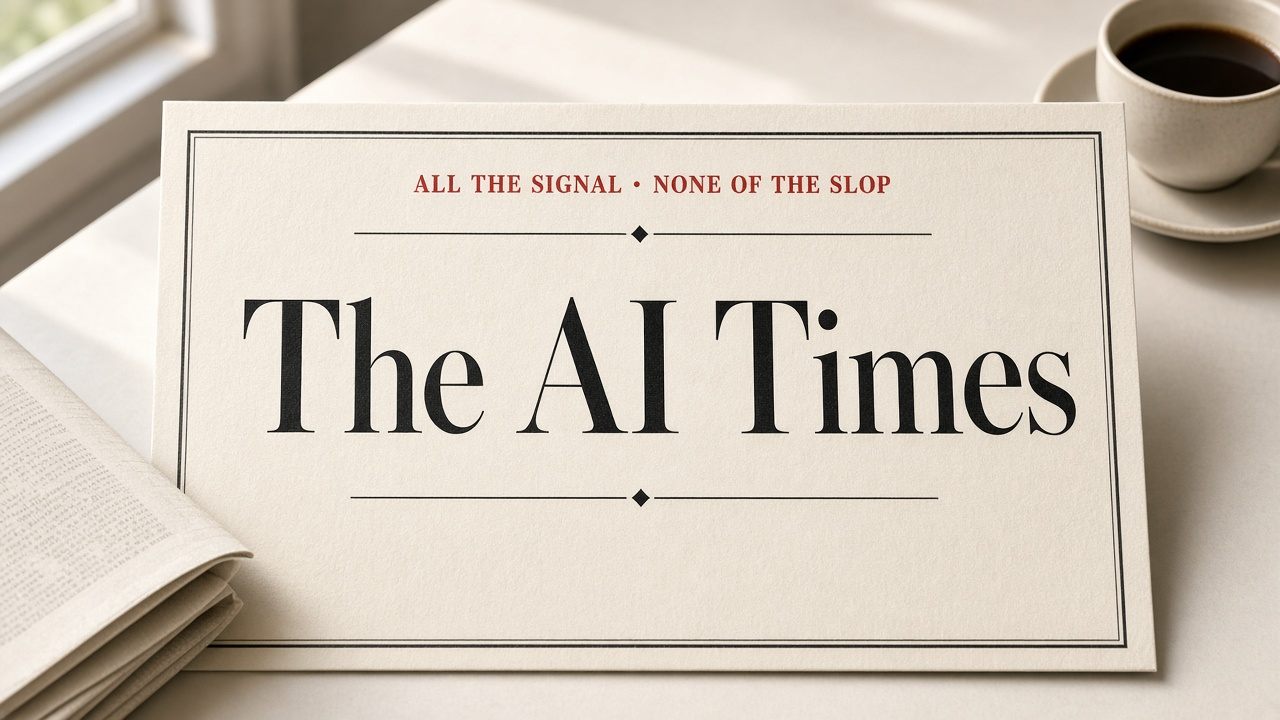
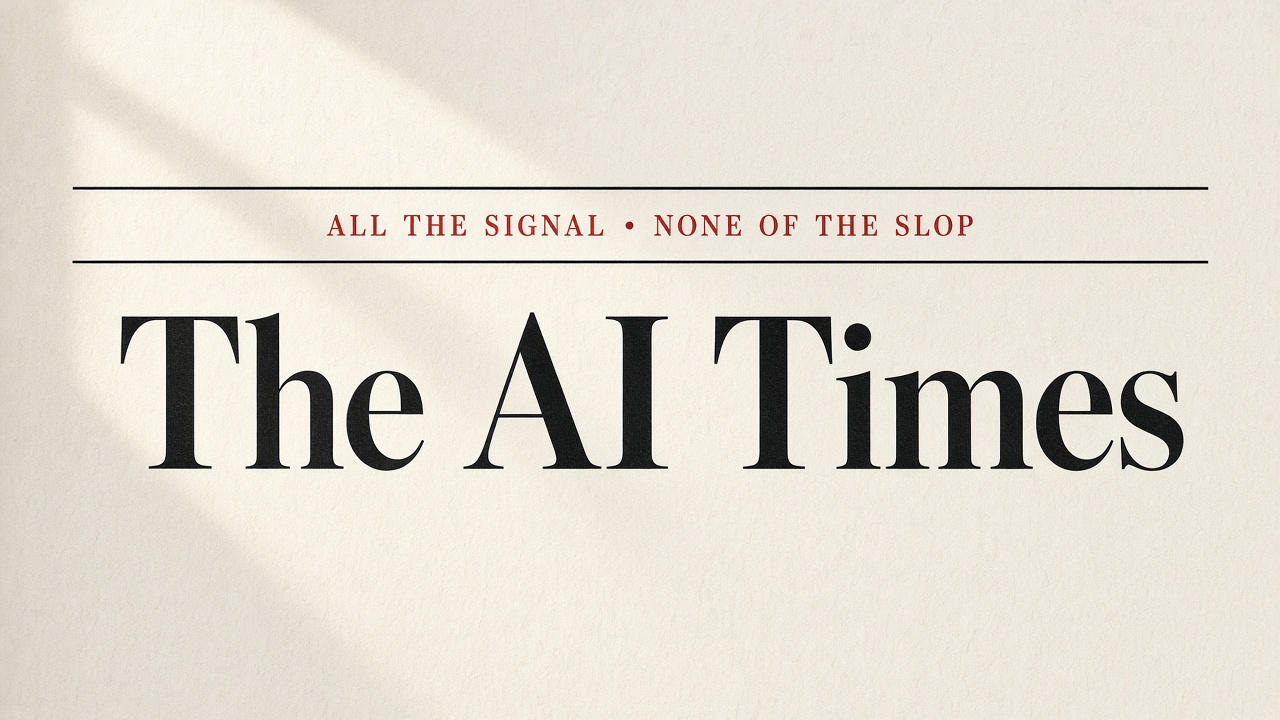
Prepare repo for discovery and Repo of the Day launches
Rewrite the README with a clear hook, banners, product screenshots,
launch checklist, topics, and CONTRIBUTING so GitHub visitors get the
story in under 10 seconds.

diff --git a/README.md b/README.md
@@ -1,158 +1,144 @@
-# The AI Times
+<p align="center">
+  <img src="banner.jpg" alt="The AI Times" width="100%" />
+</p>
 
-![The AI Times](banner.jpg)
+<h1 align="center">The AI Times</h1>
 
-**Your personal — or company — morning newspaper.**  
-Interest-matched. Ad-free. Sourced from premium wires. Scraped daily with [Scrapling](https://github.com/D4Vinci/Scrapling). Emailed every morning. Printed on a hands-free loop.
+<p align="center">
+  <strong>Wake up to a printed paper — not a feed.</strong><br/>
+  Interest-matched morning newspaper. Emailed daily. Printed on your Wi‑Fi printer.<br/>
+  Pause when you’re away. Resume when you’re home.
+</p>
 
-## What it does
+<p align="center">
+  <a href="#quick-start"><img src="https://img.shields.io/badge/quick%20start-2%20commands-111111?style=flat-square" alt="Quick start" /></a>
+  <a href="LICENSE"><img src="https://img.shields.io/badge/license-MIT-C62828?style=flat-square" alt="MIT" /></a>
+  <a href="#stack"><img src="https://img.shields.io/badge/Next.js%20%2B%20Python%20agents-ready-0A7A3E?style=flat-square" alt="Stack" /></a>
+  <a href="#daily-agent"><img src="https://img.shields.io/badge/Wi‑Fi%20%2F%20AirPrint-supported-0071e3?style=flat-square" alt="Wi-Fi print" /></a>
+</p>
 
-- **Personal papers** — *The [Your Name] Times*, Daily News, Herald, Post, custom mastheads
-- **Company papers** — brand / market / competitor keywords → a private company newspaper
-- **Premium providers** — BBC, Guardian, TechCrunch, NPR, AP & Bloomberg via Google News RSS, plus Scrapling HTML desks
-- **Always-on news agent** — Scrapling + RSS loop that scores importance and raises breaking alerts
-- **Hands-free print daemon** — discovers CUPS / IPP / PDF printers, stores paper settings, auto-prints at the chosen time without another click
+---
+
+## Why this exists
+
+Most news products optimize for **engagement**. The AI Times optimizes for **signal**.
+
+| Old morning | With The AI Times |
+|---|---|
+| Infinite scroll, ads, outrage | One A4 paper, your interests only |
+| Tap Print every day | Printer runs itself at 6:05 |
+| Miss it while traveling | **Pause printing** → **Resume** when home |
+
+Built for people who still believe a paper on the table beats another tab.
+
+---
+
+## Demo
+
+<p align="center">
+  <img src="docs/shots/home.jpg" alt="Home — compose your paper" width="48%" />
+  <img src="docs/shots/edition.jpg" alt="Dense A4 edition" width="48%" />
+</p>
+<p align="center">
+  <img src="docs/shots/agent.jpg" alt="Daily agent — Wi-Fi printer + pause/play" width="48%" />
+  <img src="docs/shots/studio.jpg" alt="Design studio templates" width="48%" />
+</p>
+
+> **Hook for Show HN / Product Hunt:**  
+> “An always-on agent that turns RSS into *The [Your Name] Times*, emails it at 6:00, and AirPrints it at 6:05 — with a Pause button for when you’re not home.”
+
+---
+
+## Features
+
+- **Personal or company paper** — *The Sairam Times*, Herald, Post, or *The Acme Times*
+- **News prompt + BYOK** — OpenAI, Claude, Gemini, Groq, Ollama, or offline desk
+- **Always-on agents** — Scrapling + RSS desk, morning delivery, print daemon (Python)
+- **Dense A4 layouts** — classic / modern / compact / broadsheet / magazine
+- **Wi‑Fi / AirPrint / IPP** — connect your home or office printer **once**
+- **Pause / Resume** — skip printing while traveling; email can still arrive
+- **Daily puzzles** — crossword, sudoku, word search, cryptogram, trivia (unique per day)
+- **Share** — WhatsApp, Slack webhook, mailto, copy link
+
+---
 
 ## Quick start
 
 ```bash
+git clone https://github.com/firstninja-v/the-ai-times.git
+cd the-ai-times
 npm install
 npm run agents:install
 npm run dev
 ```
 
-Open [http://127.0.0.1:43123](http://127.0.0.1:43123).
+Open **http://127.0.0.1:43123**
 
-### Design studio (templates + BYOK)
-
-Open [/studio](http://127.0.0.1:43123/studio):
-
-1. Click a template card — live HTML preview updates immediately
-2. Paste your API key (OpenAI / Claude / Gemini / Groq / Ollama)
-3. Choose **pages**, **font**, and **black & white vs color**
-4. **Generate** one paper or **Generate all templates**
-
-The Next.js API passes those options + your key into the Python generator (`agents/newspaper`), which writes readable image-rich HTML under `public/editions/`.
-
-### Designed newspaper HTML (CLI)
-
-Ready-made templates: `classic`, `modern`, `compact`, `broadsheet`, `magazine`.
+1. **Compose your paper** → `/setup`
+2. **Connect Wi‑Fi printer + schedule** → `/agent` → **Turn on every day**
+3. **Run once now** to prove generate → email → print
 
 ```bash
-# list templates
-npm run agent:paper -- --list-templates
-
-# generate today (offline desk editor if no key)
-npm run agent:paper -- --template modern --pages 4 --font newsreader --color bw
-
-# use any small OpenAI-compatible model
-export LLM_API_KEY=sk-...
-export LLM_BASE_URL=https://api.openai.com/v1   # or Groq / Together / Ollama
-export LLM_MODEL=gpt-4o-mini
-npm run agent:paper -- --template classic --email you@example.com
-
-# render every template
-npm run agent:paper -- --all-templates --no-llm
-
-# refresh visual previews for the studio gallery
-npm run agent:paper:previews
+# Keep agents running (or use the Turn on every day button)
+npm run agent:news      # wires all day
+npm run agent:morning   # generate → email → print on schedule
+npm run agent:print     # printer loop / discovery
 ```
 
-Editions land in `.ai-times/editions/` and `public/editions/`. Copy `agents/.env.example` for LLM + SMTP.
+---
 
-### Daily agent (every morning + home printer)
+## Daily agent
 
-Open [/agent](http://127.0.0.1:43123/agent):
+Open [`/agent`](http://127.0.0.1:43123/agent):
 
-1. **Connect your home/office printer once** (Discover CUPS, or add IPP like `ipp://192.168.1.50/ipp/print`)
-2. Set **email time** + **print time** + recipient
-3. Click **Turn on every day** — mornings send the A4 paper to that same printer
-4. **Pause printing** when away; **Resume** when home
-5. Optional: **Run once now** / **Test print**
+1. **Scan Wi‑Fi printers** or paste `ipp://192.168.x.x/ipp/print`
+2. **Connect this printer** once
+3. Set email time / print time
+4. **Turn on every day**
+5. Leaving town? **Pause printing** → back home? **Resume**
 
-You do **not** reconnect the printer each day or keep the website open. Keep the machine (or a small home server) running.
+No browser tab required after that. Keep the machine (or a small home server) on.
 
-Or from a terminal:
+---
 
-```bash
-# Terminal A — continuous Scrapling + wire collection
-npm run agent:news
+## Stack
 
-# Terminal B — morning agent: generate A4 paper → email → print on schedule
-npm run agent:morning
-
-# Terminal C — printer discovery + scheduled auto-print fallback
-npm run agent:print
-
-# Smoke test morning pipeline once (generate + mock email + PDF/HTML print file)
-npm run agent:morning:once
-
-# One-shot daily paper (cron-friendly)
-npm run agent:paper:daily
-```
-
-Papers render at **A4** (`210mm × 297mm`) with dense multi-column layouts.
-
-### Reading volume
-
-In Setup or Studio, pick **Less / Medium / More**:
-- **Less** — ~10 shorter stories  
-- **Medium** — ~18 balanced pieces  
-- **More** — ~28 longer bodies (default)
-
-```bash
-npm run agent:paper -- --volume more --pages 4
-```
-
-### Games desk (daily puzzles)
-
-Pick any of five classic paper games in Setup or Studio — **Crossword, Sudoku, Word Search, Cryptogram, Trivia** — with Easy / Medium / Hard.  
-Each day the Python desk mints a **new unique board** (fingerprints stored in `.ai-times/puzzles/`) and skips news stories already printed, so neither games nor wires repeat.
-
-```bash
-npm run agent:paper -- --puzzles crossword,sudoku,wordsearch,cryptogram,trivia --puzzle-difficulty hard
-```
-
-Optional env:
-
-```bash
-export AI_TIMES_API=http://127.0.0.1:43123
-export AI_TIMES_AGENT_POLL=90
-export AI_TIMES_PRINT_POLL=30
-# Network printers: name|ipp://host/printers/queue,name2|ipp://...
-export IPP_PRINTERS="lobby|ipp://192.168.1.50/ipp/print"
-```
-
-### Settings — printers, email, share
-
-Open [/settings](http://127.0.0.1:43123/settings) for printer discovery, SMTP, and WhatsApp/Slack sharing.
-
-For the everyday morning loop, use [/agent](http://127.0.0.1:43123/agent) (schedule + **Turn on every day**).
-
-Images prefer original wire photos; when a feed has no image (or reuses the same asset), the desk draws a **unique** editorial placeholder — never repeating stock pets.
-
-### Email (optional)
-
-Use **Settings → Email**, or copy `.env.example` → `.env.local` and set SMTP. Without SMTP, the agent still writes a local email preview so the loop keeps working.
-
-## Architecture
-
-| Piece | Role |
+| Layer | Tech |
 |---|---|
-| Next.js app | Setup, studio, Settings (agents/printers/email/share), edition UI |
-| `agents/news_agent.py` | Scrapling + premium RSS desk, importance scoring, inbox + breaking ingest |
-| `agents/morning_daemon.py` | Generate A4 paper → email → print on agent schedule |
-| `agents/print_daemon.py` | Printer registry, settings, forever loop, auto print at `printTime` |
-| `.ai-times/` | Local runtime: inbox, profiles, printers, settings, print queue |
+| App | Next.js · TypeScript · Tailwind · shadcn/ui |
+| Agents | Python — `morning_daemon.py`, `news_agent.py`, `print_daemon.py` |
+| Paper desk | `agents/newspaper/` — fetch, layout, images, puzzles, Wi‑Fi IPP |
+| Runtime | `.ai-times/` profiles, printers, delivery pause state, inbox |
 
-## Company paper flow
+---
 
-1. Open **/company**
-2. Enter company, industry, keywords, competitors
-3. Save → profile syncs into `.ai-times/profiles/`
-4. News agent boosts matching stories all day
-5. Print daemon fires the edition at the company print time
+## Project layout
+
+```
+src/                 # Next.js UI + APIs
+agents/              # Python daemons + newspaper studio
+docs/shots/          # README screenshots
+banner.jpg           # GitHub banner
+LICENSE
+```
+
+---
+
+## Launch checklist (Repo of the Day)
+
+Use [`.github/LAUNCH.md`](.github/LAUNCH.md) for the full list. Short version:
+
+- [ ] Push this `main` to GitHub (so Python agents + banner appear)
+- [ ] Set **About** description + topics from [`.github/REPO_TOPICS.txt`](.github/REPO_TOPICS.txt)
+- [ ] Social preview: upload `docs/og-card.jpg` in repo Settings → Social preview
+- [ ] Pin the repo on your profile
+- [ ] Post **Show HN** with the hook above + 20s demo
+- [ ] Share in r/selfhosted + r/rss with a GIF of print/pause
+
+---
 
 ## License
 
-MIT
+MIT — see [LICENSE](LICENSE).
+
+<p align="center"><sub>All the signal · None of the slop</sub></p>

diff --git a/.github/LAUNCH.md b/.github/LAUNCH.md
@@ -1,0 +1,44 @@
+# Launch playbook — aim for Repo of the Day / Trending
+
+## 1. Repo page (do this first)
+
+In GitHub → **About** (gear icon):
+
+- **Description** (copy/paste):
+  ```
+  Personal morning newspaper — interest-matched RSS, daily email, Wi-Fi/AirPrint printing, pause when away.
+  ```
+- **Website**: your demo URL if hosted, else leave blank
+- **Topics**: see `REPO_TOPICS.txt`
+- **Social preview**: upload `docs/og-card.jpg`
+
+Pin the repo on your profile. Make sure `README.md` + `banner.jpg` + `docs/shots/` are on **GitHub `main`** (not only Origin).
+
+## 2. First 48 hours of posts
+
+| Channel | Angle |
+|---|---|
+| **Show HN** | “Wake up to a printed paper, not a feed” + demo GIF |
+| **r/selfhosted** | Always-on agents + AirPrint + pause/resume |
+| **r/rss** | Interest-matched paper from wires, no engagement sludge |
+| **X / LinkedIn** | 20s clip: generate → email → Wi‑Fi print |
+| **Product Hunt** | Launch Tue–Thu morning PT; tag Automation + Open Source |
+
+Keep replies fast. Ask early users for a star if they like it — don’t beg in the README.
+
+## 3. What reviewers click for
+
+1. Banner + one-line hook (above the fold)
+2. Screenshots of the actual product
+3. `npm install && npm run dev` works
+4. Obvious “agent” story (Python under `agents/`)
+5. License MIT
+
+## 4. Demo script (20 seconds)
+
+1. Home → Compose  
+2. `/agent` → Connect Wi‑Fi printer  
+3. Run once now → open edition  
+4. Hit **Pause printing** → show status  
+
+Record with Loom / OBS → drop GIF into README later if you want.

diff --git a/CONTRIBUTING.md b/CONTRIBUTING.md
@@ -1,0 +1,23 @@
+# Contributing
+
+Thanks for helping The AI Times stay signal-first.
+
+## Dev
+
+```bash
+npm install
+npm run agents:install
+npm run dev                 # http://127.0.0.1:43123
+npm run agent:morning:once  # smoke generate → email → print
+```
+
+## Guidelines
+
+- Prefer one clear product slice over new platforms
+- Keep A4 pages dense — no half-blank sheets
+- Wi‑Fi / IPP printers belong in `agents/newspaper/wifi_print.py`
+- Don’t commit `.ai-times/` runtime data or secrets
+
+## PRs
+
+Small PRs with a screenshot (UI) or sample edition HTML (agents) get merged faster.
